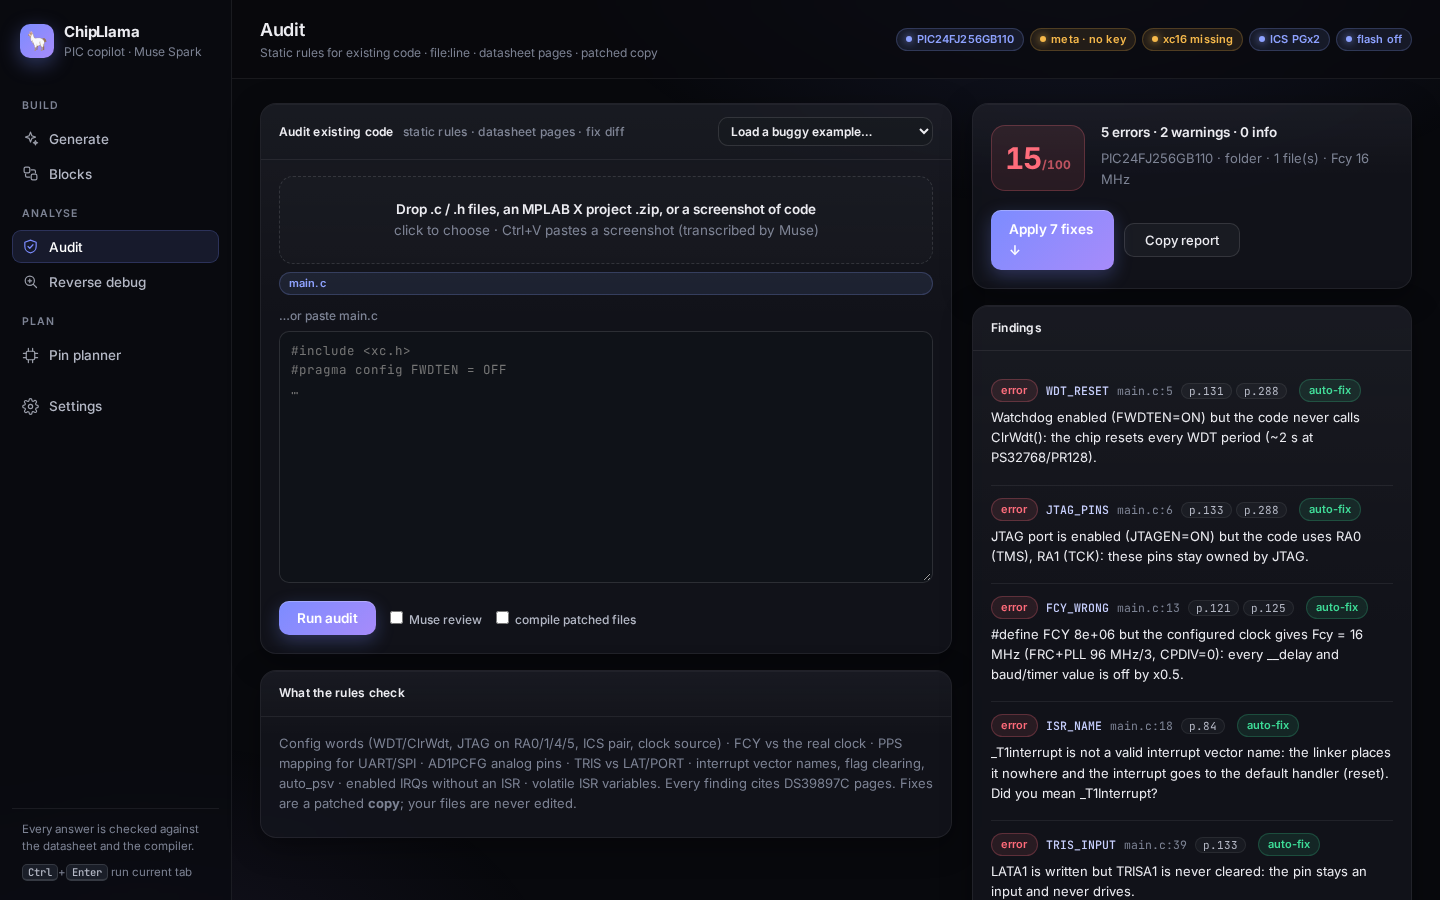
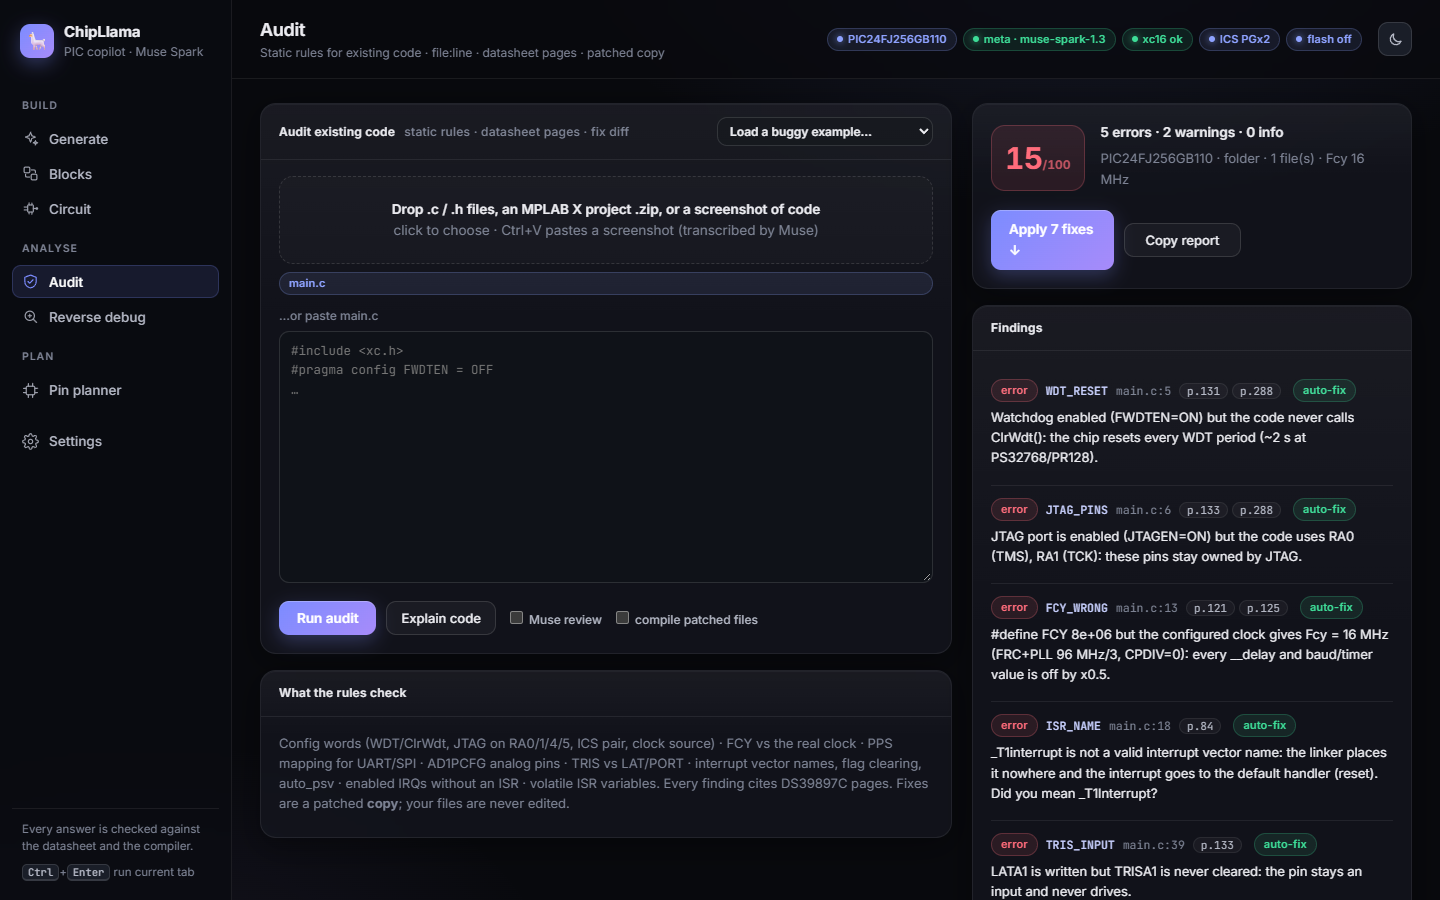
Demo assets: video builder, screenshot capture, fresh shots, OBS shot-list

diff --git a/scripts/make_demo_video.py b/scripts/make_demo_video.py
@@ -1,0 +1,244 @@
+"""Build the competition demo video (docs/demo.mp4) from REAL project assets.
+
+Beats: title -> problem -> Generate screenshot -> live `generate` terminal
+scroll -> verified code glimpse -> Audit screenshot + findings -> Blocks /
+Explain / Pins screenshots -> reverse-debug (real SFR image + decoded table)
+-> closing card. Captions throughout, no voiceover.
+
+All footage is genuine: dashboard screenshots from docs/screenshots, a
+captured live `chipllama generate` run, and offline `audit` / `debug
+--extraction` output re-captured by this script (no API key needed for those).
+
+Usage (Windows PowerShell):
+    .venv\\Scripts\\pip.exe install imageio imageio-ffmpeg   # once (build deps only, not shipped)
+    .venv\\Scripts\\chipllama.exe generate "Timer1 interrupt every 10 ms, priority 5" --out .cache\\video\\main.c > .cache\\video\\term_generate.txt
+    .venv\\Scripts\\python.exe scripts\\make_demo_video.py    # writes docs/demo.mp4 (untracked)
+
+1920x1080 @ 30 fps, H.264, ~2 minutes.
+"""
+from __future__ import annotations
+
+import subprocess
+import sys
+from pathlib import Path
+
+ROOT = Path(__file__).resolve().parent.parent
+CACHE = ROOT / ".cache" / "video"
+W, H, FPS = 1920, 1080, 30
+BG = (13, 17, 23)
+FG = (230, 237, 243)
+GREEN = (126, 231, 135)
+RED = (255, 123, 114)
+GRAY = (139, 148, 158)
+ACCENT = (255, 166, 87)
+
+CAPTURE_CMDS = {
+    "term_audit.txt": ["audit", "examples/audit/blinky_buggy"],
+    "term_debug.txt": ["debug", "--image", "examples/debug/sfr_timer1_prescaler_bug.png",
+                       "--extraction", "examples/debug/sfr_timer1_prescaler_bug.extraction.json",
+                       "--intent", "Timer1 interrupt every 10 ms, toggle RA0", "--no-model"],
+}
+
+
+def fonts():
+    from PIL import ImageFont
+
+    def load(names, size):
+        for n in names:
+            for d in (r"C:\Windows\Fonts", "/usr/share/fonts/truetype/dejavu"):
+                p = Path(d) / n
+                if p.is_file():
+                    return ImageFont.truetype(str(p), size)
+        return ImageFont.load_default()
+
+    mono = lambda s: load(["consola.ttf", "DejaVuSansMono.ttf"], s)  # noqa: E731
+    sans = lambda s: load(["arial.ttf", "DejaVuSans.ttf"], s)  # noqa: E731
+    sans_b = lambda s: load(["arialbd.ttf", "DejaVuSans-Bold.ttf"], s)  # noqa: E731
+    return mono, sans, sans_b
+
+
+def capture_offline() -> None:
+    import os
+
+    CACHE.mkdir(parents=True, exist_ok=True)
+    exe = ROOT / ".venv" / "Scripts" / "chipllama.exe"
+    env = dict(os.environ, PYTHONIOENCODING="utf-8")
+    for name, args in CAPTURE_CMDS.items():
+        r = subprocess.run([str(exe), *args], capture_output=True, cwd=ROOT, env=env)
+        text = (r.stdout or r.stderr).decode("utf-8", errors="replace")
+        (CACHE / name).write_text(text, encoding="utf-8")
+    need = ["term_generate.txt", "main.c"]
+    missing = [n for n in need if not (CACHE / n).is_file()]
+    if missing:
+        sys.exit(f"missing live footage {missing}: run the generate command from the docstring first")
+
+
+def read_lines(name: str, width: int) -> list[str]:
+    out = []
+    for raw in (CACHE / name).read_text(encoding="utf-8-sig").splitlines():
+        s = raw.rstrip()
+        if s.startswith(("At line:", "CategoryInfo", "+ ", "    + ")):
+            continue
+        out.append(s[:width] + ("..." if len(s) > width else ""))
+    while out and not out[0].strip():
+        out.pop(0)
+    return out
+
+
+def text_center(draw, cx, y, s, font, fill):
+    from PIL import ImageDraw  # noqa: F401
+    l, t, r, b = draw.textbbox((0, 0), s, font=font)
+    draw.text((cx - (r - l) / 2, y), s, font=font, fill=fill)
+
+
+def with_caption(img, lines: list[str], sans) -> None:
+    from PIL import Image, ImageDraw
+
+    bar_h = 60 + 52 * len(lines)
+    bar = Image.new("RGBA", (W, bar_h), (0, 0, 0, 200))
+    img.paste(bar, (0, H - bar_h), bar)
+    d = ImageDraw.Draw(img)
+    for i, s in enumerate(lines):
+        text_center(d, W / 2, H - bar_h + 26 + 52 * i, s, sans(34), FG)
+
+
+def card_frame(title: str, rows: list[str], sub: str, mono, sans, sans_b):
+    from PIL import Image, ImageDraw
+
+    img = Image.new("RGB", (W, H), BG)
+    d = ImageDraw.Draw(img)
+    d.line([(W / 2 - 260, 330), (W / 2 + 260, 330)], fill=ACCENT, width=6)
+    text_center(d, W / 2, 170, title, sans_b(120), FG)
+    for i, s in enumerate(rows):
+        text_center(d, W / 2, 400 + 70 * i, s, sans(44), FG)
+    text_center(d, W / 2, H - 170, sub, mono(30), GRAY)
+    return img
+
+
+def still_frame(png: Path, zoom: float, caption: list[str], sans):
+    from PIL import Image
+
+    src = Image.open(png).convert("RGB")
+    zw, zh = int(src.width / zoom), int(src.height / zoom)
+    x, y = (src.width - zw) // 2, (src.height - zh) // 2
+    img = src.crop((x, y, x + zw, y + zh)).resize((W, H), Image.LANCZOS)
+    with_caption(img, caption, sans)
+    return img
+
+
+def term_color(s: str):
+    u = s.upper()
+    if any(k in u for k in ("VERIFIED", "CHECKER=OK", "0 ERRORS", "COMPILE=OK", "STATUS", "ROOT CAUSE")):
+        return GREEN
+    if any(k in u for k in ("=FAIL", "FAILED", "ERROR", "BAD", "15/100")):
+        return RED
+    if "WARNING" in u:
+        return ACCENT
+    if s.startswith(("note:", " ", "#", "---", "+++", "@@")):
+        return GRAY
+    return FG
+
+
+def term_frame(lines: list[str], shown: int, rows: int, caption: list[str], mono, sans, code_mode=False):
+    from PIL import Image, ImageDraw
+
+    img = Image.new("RGB", (W, H), BG)
+    d = ImageDraw.Draw(img)
+    vis = lines[max(0, shown - rows):shown]
+    y = 90
+    for s in vis:
+        if code_mode:
+            t = s.strip()
+            c = GRAY if t.startswith(("//", "/*", "*", "*/")) else (ACCENT if t.startswith("#") else FG)
+        else:
+            c = term_color(s)
+        d.text((90, y), s, font=mono(26), fill=c)
+        y += 36
+    with_caption(img, caption, sans)
+    return img
+
+
+def segment(frames_fn, seconds: float) -> tuple:
+    return (frames_fn, int(seconds * FPS))
+
+
+def main() -> None:
+    import imageio.v2 as imageio
+    import numpy as np
+
+    capture_offline()
+    mono, sans, sans_b = fonts()
+    gen = read_lines("term_generate.txt", 106)
+    gen = [l for l in gen if "device data:" not in l][:26]
+    code = (CACHE / "main.c").read_text(encoding="utf-8-sig").splitlines()[:40]
+    audit = read_lines("term_audit.txt", 106)[:30]
+    debug = read_lines("term_debug.txt", 100)[:24]
+
+    shots = ROOT / "docs" / "screenshots"
+    dbg_img = ROOT / "examples" / "debug" / "sfr_timer1_prescaler_bug.png"
+
+    segs = [
+        segment(lambda t: card_frame("ChipLlama", ["The PIC firmware copilot", "that proves its code is right"],
+                                      "Meta Global AI Developer Hackathon  -  Muse Spark + XC16 + PIC", mono, sans, sans_b), 7),
+        segment(lambda t: card_frame("Guessing is not engineering", ['A chatbot says "probably this register value".',
+                                      "ChipLlama replays, compiles and checks -", "then marks the code VERIFIED."],
+                                      "deterministic solver  +  register emulator  +  real compiler", mono, sans, sans_b), 9),
+        segment(lambda t: still_frame(shots / "generate.png", 1.0 + 0.06 * t,
+                                      ["Plain English in:  Timer1 interrupt every 10 ms, priority 5"], sans), 11),
+        segment(lambda t: term_frame(gen, 1 + int(t * (len(gen) + 8)), 20,
+                                      ["Muse writes C  -  XC16 compiles  -  the checker verifies every register"], mono, sans), 18),
+        segment(lambda t: term_frame(code, 1 + int(t * (len(code) + 10)), 22,
+                                      ["Full config-bit block, computed PR1 = 19999, priority-5 ISR"], mono, sans, True), 10),
+        segment(lambda t: still_frame(shots / "audit.png", 1.0 + 0.06 * t,
+                                      ["Audit scores code you already have, with datasheet pages"], sans), 10),
+        segment(lambda t: term_frame(audit, 1 + int(t * (len(audit) + 8)), 20,
+                                      ["blinky_buggy: 15/100  ->  7 one-click fixes  ->  100/100"], mono, sans), 12),
+        segment(lambda t: still_frame(shots / "blocks.png", 1.0 + 0.06 * t,
+                                      ["Blocks: visual programming, same checker, VERIFIED badge"], sans), 7),
+        segment(lambda t: still_frame(shots / "explain.png", 1.0 + 0.06 * t,
+                                      ["Explain: every register access decoded and cited"], sans), 7),
+        segment(lambda t: still_frame(shots / "pins.png", 1.0 + 0.06 * t,
+                                      ["Pin planner: instant PPS conflicts plus init code"], sans), 9),
+        segment(lambda t: still_frame(dbg_img, 1.0 + 0.06 * t,
+                                      ["Reverse debug: drop an SFR screenshot..."], sans), 7),
+        segment(lambda t: term_frame(debug, 1 + int(t * (len(debug) + 6)), 20,
+                                      ["...vision reads it, ChipLlama recomputes every number"], mono, sans), 9),
+        segment(lambda t: card_frame("Prove it, don't prompt it", ["Muse Spark  -  XC16  -  PIC24 / dsPIC33 / PIC18 / PIC32",
+                                      "github.com/RafaelMarian/ChipLlama"],
+                                      "Built Oct 27 - Nov 4, 2026  -  MIT", mono, sans, sans_b), 9),
+    ]
+
+    out = ROOT / "docs" / "demo.mp4"
+    PS = sys.argv[sys.argv.index("--shots") + 1].split(",") if "--shots" in sys.argv else None
+    writer = None if PS else imageio.get_writer(str(out), fps=FPS, codec="libx264", quality=8,
+                                                macro_block_size=None, ffmpeg_params=["-pix_fmt", "yuv420p"])
+    try:
+        tail: list = []
+        for si, (fn, n) in enumerate(segs):
+            for i in range(n):
+                img = fn(i / max(1, n - 1))
+                if PS is not None:
+                    continue
+                if tail and i < 15:
+                    from PIL import Image
+
+                    img = Image.blend(tail[i - 15], img, (i + 1) / 16)
+                writer.append_data(np.asarray(img.convert("RGB")))
+            if PS is None:
+                from PIL import Image  # noqa: F401
+
+                tail = [fn(1.0) for _ in range(15)]
+        if PS is not None:  # --shots i,j: dump mid-segment stills for review instead of rendering
+            for s in PS:
+                fn, n = segs[int(s)]
+                fn(0.5).save(CACHE / f"shot_{s}.png")
+                print("wrote", CACHE / f"shot_{s}.png")
+    finally:
+        if writer is not None:
+            writer.close()
+    if PS is None:
+        print("wrote", out, f"({out.stat().st_size / 1e6:.1f} MB)")
+
+
+if __name__ == "__main__":
+    main()

diff --git a/scripts/capture_screenshots.py b/scripts/capture_screenshots.py
@@ -1,0 +1,88 @@
+"""Re-capture docs/screenshots/*.png from a live local dashboard (headless system Chrome).
+
+Uses the real server with your real toolchain (XC16, packs, datasheet, API key
+presence shown only as "set" pills - keys are never echoed by the UI), so the
+shots always match the shipped product. No API calls are made.
+
+Usage (Windows PowerShell, from repo root):
+    .venv\\Scripts\\pip.exe install playwright        # once (driver only; uses system Chrome)
+    .venv\\Scripts\\python.exe scripts\\capture_screenshots.py
+"""
+from __future__ import annotations
+
+import json
+import subprocess
+import sys
+import time
+import urllib.request
+from pathlib import Path
+
+ROOT = Path(__file__).resolve().parent.parent
+SHOTS = ROOT / "docs" / "screenshots"
+PORT = 8123
+CHROME = r"C:\Program Files\Google\Chrome\Application\chrome.exe"
+
+
+def api(path: str):
+    with urllib.request.urlopen(f"http://127.0.0.1:{PORT}{path}", timeout=20) as r:
+        return json.load(r)
+
+
+def main() -> None:
+    from playwright.sync_api import sync_playwright
+
+    SHOTS.mkdir(parents=True, exist_ok=True)
+    server = subprocess.Popen(
+        [sys.executable, "-m", "uvicorn", "chipllama.server:get_app", "--factory",
+         "--host", "127.0.0.1", "--port", str(PORT)],
+        cwd=ROOT, stdout=subprocess.DEVNULL, stderr=subprocess.DEVNULL)
+    try:
+        for _ in range(60):
+            try:
+                api("/api/status")
+                break
+            except OSError:
+                time.sleep(0.5)
+        else:
+            sys.exit("server did not start")
+        audits = [x["name"] for x in api("/api/audit/examples")]
+        blocks = [e["name"] for e in api("/api/blocks/meta")["examples"] if not e.get("family")]
+        aex = "blinky_buggy" if "blinky_buggy" in audits else audits[0]
+        bex = "blink" if "blink" in blocks else blocks[0]
+        print("audit example:", aex, "| blocks example:", bex)
+        with sync_playwright() as p:
+            b = p.chromium.launch(executable_path=CHROME, headless=True)
+            pg = b.new_page(viewport={"width": 1440, "height": 900})
+            pg.goto(f"http://127.0.0.1:{PORT}/")
+            pg.wait_for_timeout(2500)
+            pg.fill("#req", "Timer1 interrupt every 10 ms, priority 5")
+            pg.wait_for_timeout(600)
+            pg.screenshot(path=str(SHOTS / "generate.png"))
+            pg.evaluate("tab('aud')")
+            pg.wait_for_timeout(800)
+            pg.evaluate(f"Audit.loadEx({aex!r})")
+            pg.wait_for_selector(".ascore", timeout=30000)
+            pg.wait_for_timeout(800)
+            pg.screenshot(path=str(SHOTS / "audit.png"))
+            pg.evaluate("Audit.explain()")
+            pg.wait_for_timeout(2500)
+            pg.screenshot(path=str(SHOTS / "explain.png"))
+            pg.evaluate("tab('pin')")
+            pg.wait_for_selector("#pinout .card", timeout=30000)
+            pg.wait_for_timeout(800)
+            pg.screenshot(path=str(SHOTS / "pins.png"))
+            pg.evaluate("tab('blk')")
+            pg.evaluate("Blocks.init()")
+            pg.wait_for_selector("#bws svg", timeout=30000)
+            pg.evaluate(f"Blocks.loadEx({bex!r})")
+            pg.wait_for_timeout(3500)
+            pg.screenshot(path=str(SHOTS / "blocks.png"))
+            b.close()
+    finally:
+        server.terminate()
+    for f in ("generate", "audit", "explain", "pins", "blocks"):
+        print("wrote", SHOTS / f"{f}.png")
+
+
+if __name__ == "__main__":
+    main()

diff --git a/docs/DEMO_SHOTLIST.md b/docs/DEMO_SHOTLIST.md
@@ -1,0 +1,63 @@
+# ChipLlama live demo shot-list (OBS, ~3 minutes)
+
+Record at 1920x1080, 30 fps. Capture the browser window + a terminal
+side by side, or one at a time. Narrate each beat in one or two sentences.
+Nothing below needs editing: every command runs as written.
+
+## Setup (before recording)
+
+```powershell
+.\.venv\Scripts\Activate.ps1
+.\.venv\Scripts\chipllama.exe doctor     # all green: key, XC16, packs, datasheet
+.\.venv\Scripts\chipllama.exe serve      # dashboard on http://127.0.0.1:8000
+```
+
+Open the dashboard in the browser. Start OBS recording.
+
+## Beat 1 — Generate, verified (0:00–0:50)
+
+1. Generate tab: type `Timer1 interrupt every 10 ms, priority 5`, press
+   Ctrl+Enter. Say: "Plain English in. Muse writes register-level C."
+2. Point at the live progress: parsed spec, attempt 1, compiler output.
+   Say: "Every register is checked against the datasheet and compiled
+   with the real XC16 compiler."
+3. Show the VERIFIED code. Say: "Only then is it marked verified."
+
+Backup if the API is slow: tick "Demo: self-correction (inject fault)"
+before generating — attempt 1 fails on purpose, attempt 2 fixes it.
+
+## Beat 2 — Audit a buggy project (0:50–1:30)
+
+1. Audit tab → "Load a buggy example" → `blinky_buggy` → Run audit.
+   Say: "Five errors, two warnings, each with a datasheet page."
+2. Click "Apply 7 fixes", download the zip.
+   Say: "One click, patched copy, never edits in place."
+
+## Beat 3 — Blocks + Explain + Pins (1:30–2:20)
+
+1. Blocks tab → load `blink`. Drag one block; show the C + VERIFIED badge.
+   Say: "Visual programming, deterministic C, same checker."
+2. Back in Audit → "Explain code" on the buggy file.
+   Say: "Every register access decoded and cited."
+3. Pin planner: `U1TX=RP10`, `OC1=RC1` → show the conflict message.
+   Say: "It knows RC1 is input-only."
+
+## Beat 4 — Reverse debug from a screenshot (2:20–2:50)
+
+1. Reverse debug tab → drop `examples/debug/sfr_timer1_prescaler_bug.png`,
+   intent: `Timer1 interrupt every 10 ms, toggle RA0` → Diagnose.
+   Say: "Vision reads the screenshot; ChipLlama recomputes every number
+   and points at the prescaler bug."
+
+## Outro (2:50–3:00)
+
+Settings tab → Doctor card, all green. Say: "Muse Spark, XC16, PIC —
+proven, not promised." Stop recording.
+
+## Terminal alternative (no browser)
+
+```powershell
+chipllama generate "Timer1 interrupt every 10 ms, priority 5"
+chipllama audit examples\audit\blinky_buggy
+chipllama debug --image examples\debug\sfr_timer1_prescaler_bug.png --intent "Timer1 interrupt every 10 ms, toggle RA0"
+```
